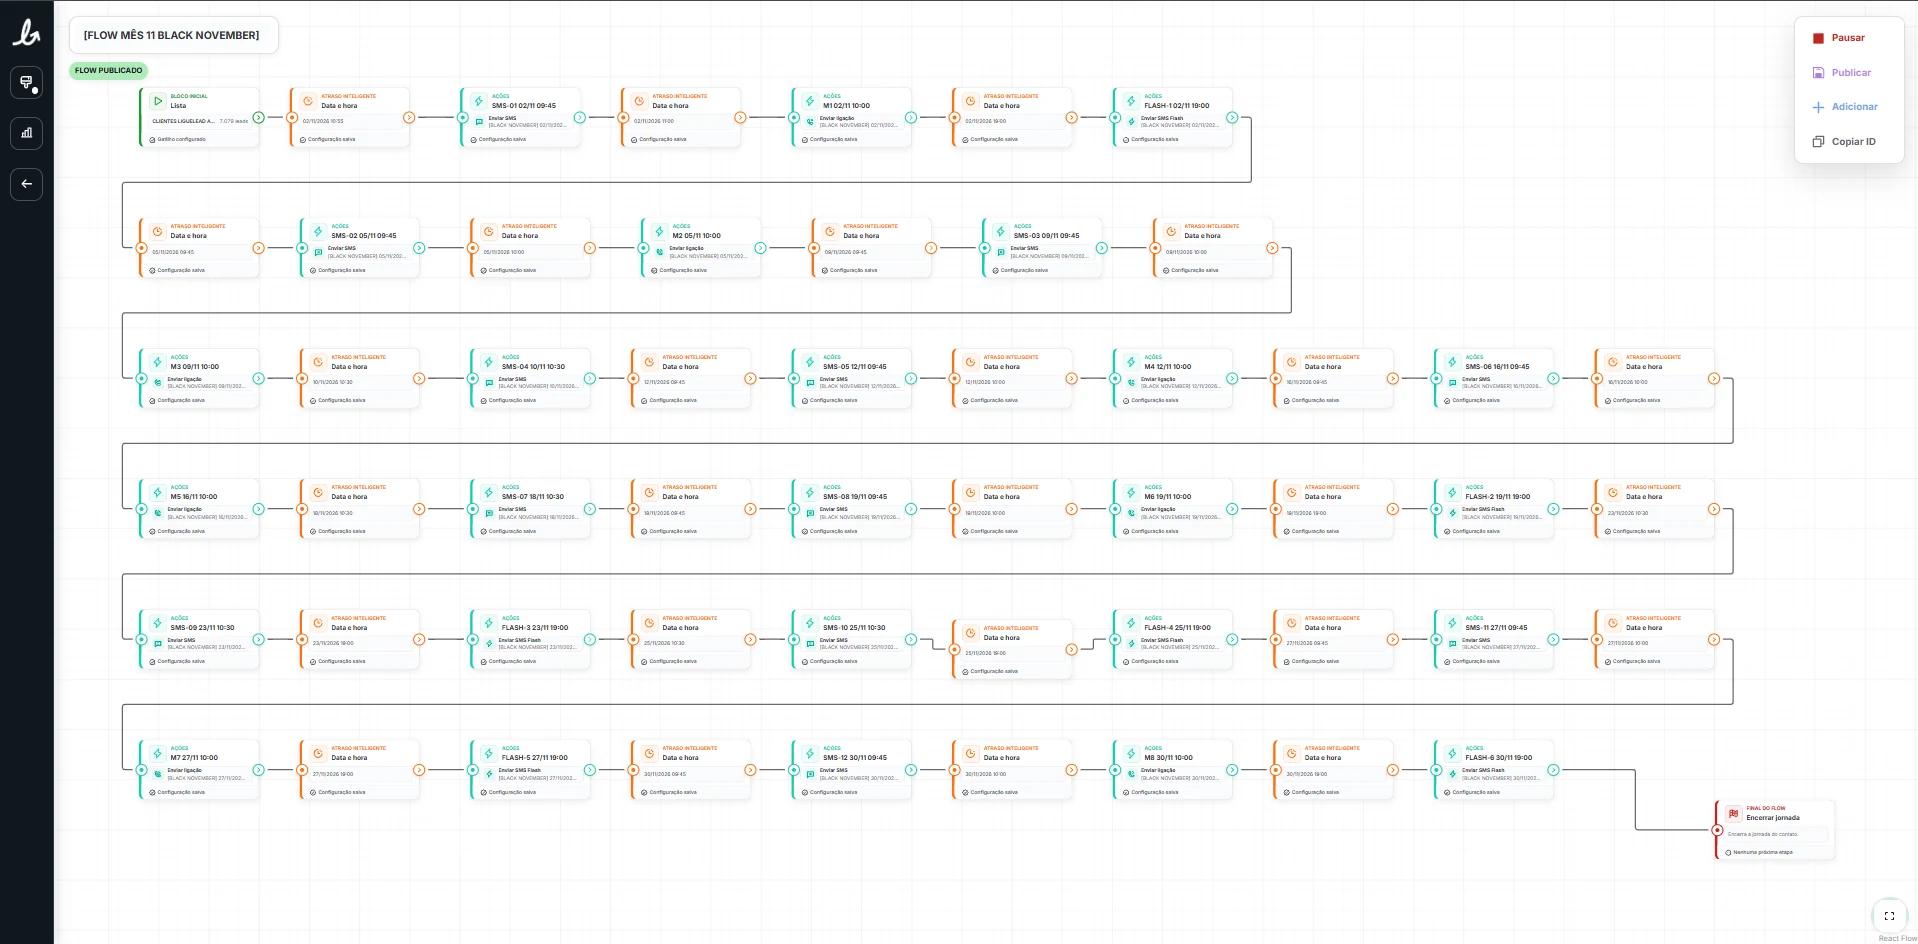
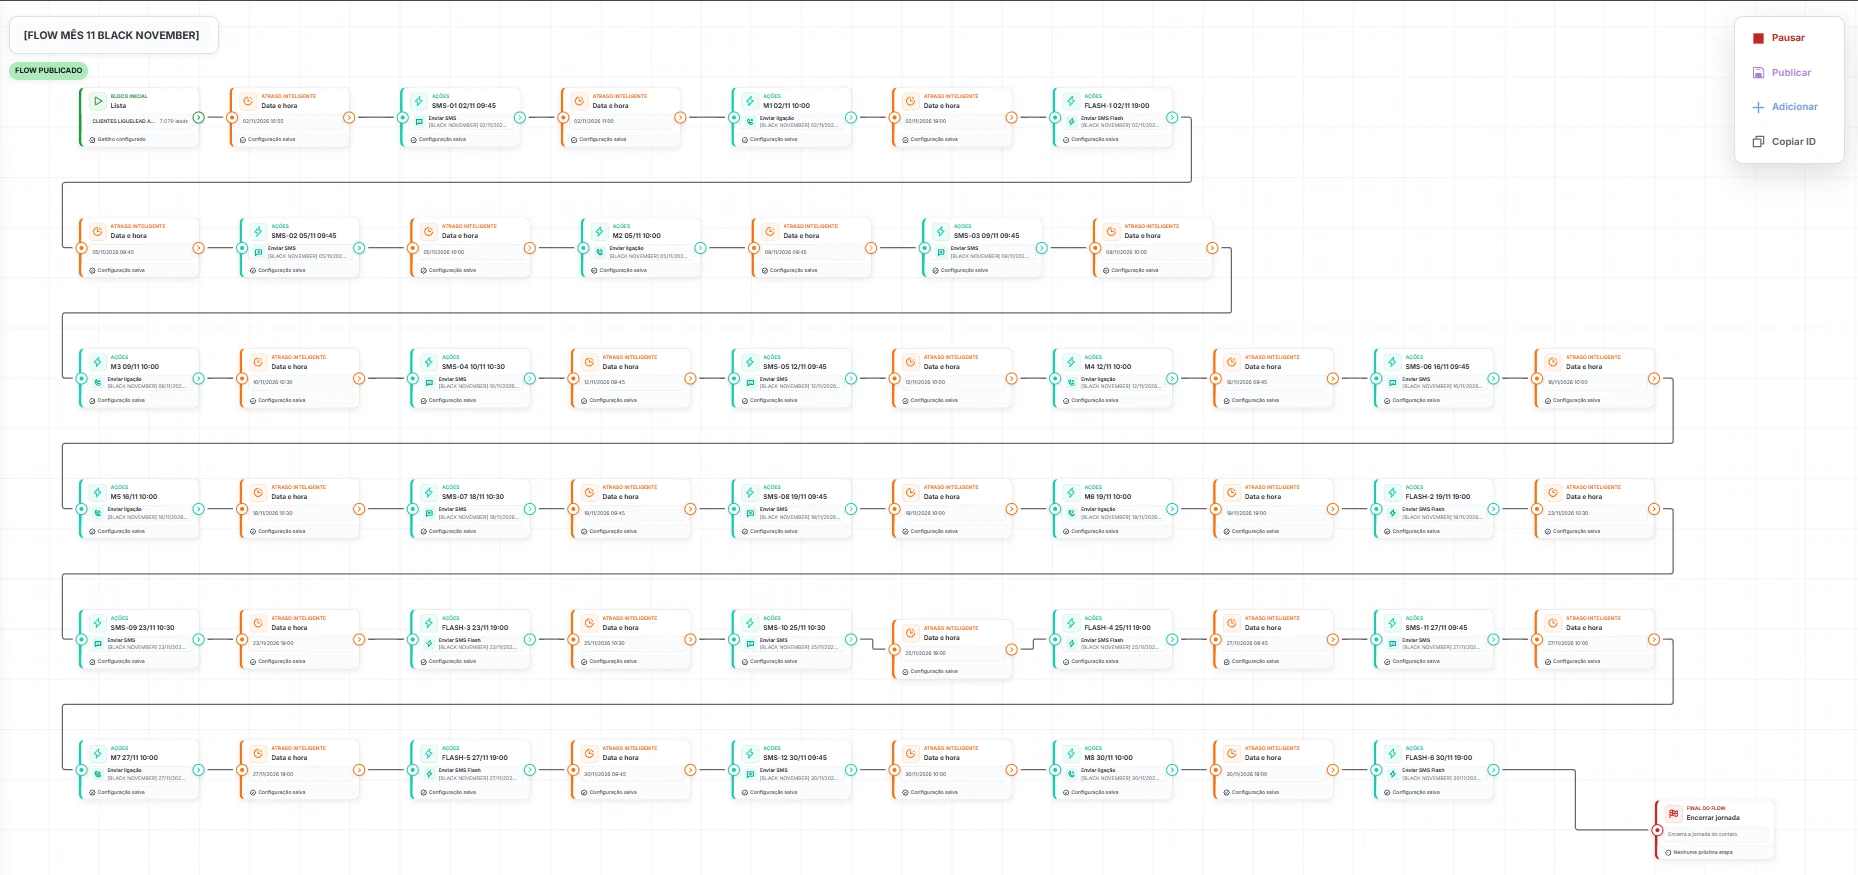
Produtos: print do Flow em palco escuro com janela e numeros do fluxo

diff --git a/produtos/index.html b/produtos/index.html
@@ -750,11 +750,36 @@
   .sim-alerts li.ok::before{background:var(--teal)}
   .sr{position:absolute;width:1px;height:1px;overflow:hidden;clip:rect(0 0 0 0);white-space:nowrap}
   /* flow */
-  .flowshot{margin:0 0 24px}
-  .flowshot-s{border:1px solid var(--line);border-radius:18px;overflow:hidden;background:#fff;box-shadow:var(--shadow)}
+  .flowshot{position:relative;margin:0 0 24px;padding:44px 44px 34px;border-radius:24px;overflow:hidden;background:radial-gradient(90% 70% at 50% 0%,#11463F 0%,#0B0B0F 68%);color:var(--on-black)}
+  .fwin{position:relative;border-radius:14px;overflow:hidden;background:#fff;box-shadow:0 0 0 1px rgba(255,255,255,.14),0 40px 80px -30px rgba(0,0,0,.8),0 0 90px -20px rgba(27,204,174,.45)}
+  .fwin-bar{display:flex;align-items:center;gap:7px;height:38px;padding:0 14px;background:#16161C;border-bottom:1px solid var(--black-line)}
+  .fwin-bar i{width:10px;height:10px;border-radius:50%;background:#3A3A44}
+  .fwin-bar span{display:inline-flex;align-items:center;gap:8px;margin-left:auto;font-size:12.5px;font-weight:700;letter-spacing:.06em;text-transform:uppercase;color:var(--teal)}
+  .fwin-bar span b{width:8px;height:8px;border-radius:50%;background:var(--teal);box-shadow:0 0 0 4px rgba(27,204,174,.22)}
+  .flowshot-s{background:#fff}
   .flowshot img{display:block;width:100%;height:auto}
-  .flowshot figcaption{margin-top:12px;font-size:15px;color:var(--muted)}
-  @media(max-width:760px){.flowshot-s{overflow-x:auto;-webkit-overflow-scrolling:touch}.flowshot img{width:920px;max-width:none}.flowshot figcaption::before{content:"Arraste a imagem pro lado pra ver o fluxo inteiro. ";font-weight:500;color:var(--teal-ink)}}
+  .flowshot figcaption{display:grid;grid-template-columns:1fr auto;gap:20px 40px;align-items:center;margin-top:30px}
+  .flowshot figcaption p{font-size:19px;line-height:1.35;font-weight:700;color:#fff;max-width:420px}
+  .flowshot figcaption p span{display:block;font-weight:300;color:var(--on-black-muted)}
+  .flowshot figcaption ul{list-style:none;display:flex;gap:0}
+  .flowshot figcaption li{padding:2px 26px;border-left:1px solid var(--black-line);max-width:170px}
+  .flowshot figcaption li:last-child{padding-right:0}
+  .flowshot figcaption li b{display:block;font-size:34px;line-height:1;color:var(--teal);letter-spacing:-.02em}
+  .flowshot figcaption li span{display:block;margin-top:6px;font-size:14px;line-height:1.3;color:var(--on-black-muted)}
+  @media(max-width:980px){.flowshot{padding:30px 28px 28px}.flowshot figcaption{grid-template-columns:1fr}.flowshot figcaption li:first-child{padding-left:0;border-left:none}}
+  @media(max-width:760px){
+    .flowshot{padding:18px 16px 22px;border-radius:18px}
+    .flowshot-s{overflow-x:auto;-webkit-overflow-scrolling:touch}
+    .flowshot img{width:940px;max-width:none}
+    .flowshot figcaption{margin-top:20px;gap:16px}
+    .flowshot figcaption p{font-size:17px}
+    .flowshot figcaption p::after{content:"Arraste a imagem pro lado pra ver o fluxo inteiro.";display:block;margin-top:8px;font-size:14px;font-weight:500;color:var(--teal)}
+    .flowshot figcaption ul{display:grid;grid-template-columns:1fr 1fr 1fr;gap:14px 0}
+    .flowshot figcaption li{padding:0 12px;max-width:none}
+    .flowshot figcaption li:last-child{grid-column:1 / -1;padding:14px 0 0;border-left:none;border-top:1px solid var(--black-line);display:flex;align-items:baseline;gap:10px}
+    .flowshot figcaption li b{font-size:28px}
+    .flowshot figcaption li:last-child span{margin-top:0}
+  }
   .flowb{display:grid;grid-template-columns:repeat(5,1fr);gap:14px;counter-reset:fb}
   .flowb>div{position:relative;background:var(--bg);border:1px solid var(--line);border-radius:16px;padding:20px 18px 22px}
   .flowb>div:first-child{background:var(--black);border-color:var(--black)}
@@ -1253,8 +1278,19 @@
       <p class="lead">Fluxos automatizados que combinam voz e SMS em sequências inteligentes. Você desenha uma vez e cada lead percorre o caminho certo, na hora certa.</p>
     </div>
     <figure class="flowshot reveal">
-      <div class="flowshot-s"><img src="../assets/flow-print.webp" alt="Tela do LigueLead Flow com um fluxo publicado: lista de entrada, esperas com data e hora e ações de SMS, ligação e SMS Flash em sequência até o fim da jornada" width="1918" height="944" loading="lazy"></div>
-      <figcaption>Um fluxo de verdade rodando na LigueLead: um mês inteiro de SMS, ligações e SMS Flash agendados, do bloco inicial ao fim da jornada.</figcaption>
+      <div class="fwin">
+        <div class="fwin-bar" aria-hidden="true"><i></i><i></i><i></i><span><b></b>Flow publicado</span></div>
+        <div class="flowshot-s"><img src="../assets/flow-print.webp" alt="Tela do LigueLead Flow com um fluxo publicado: lista de entrada, esperas com data e hora e ações de SMS, ligação e SMS Flash em sequência até o fim da jornada" width="1858" height="875" loading="lazy"></div>
+      </div>
+      <figcaption>
+        <p>Um fluxo de verdade rodando na LigueLead. <span>O mês inteiro agendado de uma vez só.</span></p>
+        <ul>
+          <li><b>12</b><span>SMS</span></li>
+          <li><b>8</b><span>ligações</span></li>
+          <li><b>6</b><span>SMS Flash</span></li>
+          <li><b>1</b><span>fluxo, do início ao fim da jornada</span></li>
+        </ul>
+      </figcaption>
     </figure>
     <div class="flowb reveal">
       <div><span class="fk">Início</span><b>Gatilho de entrada</b><p>O lead entra no fluxo por uma tag ou por uma integração com as suas ferramentas.</p></div>
